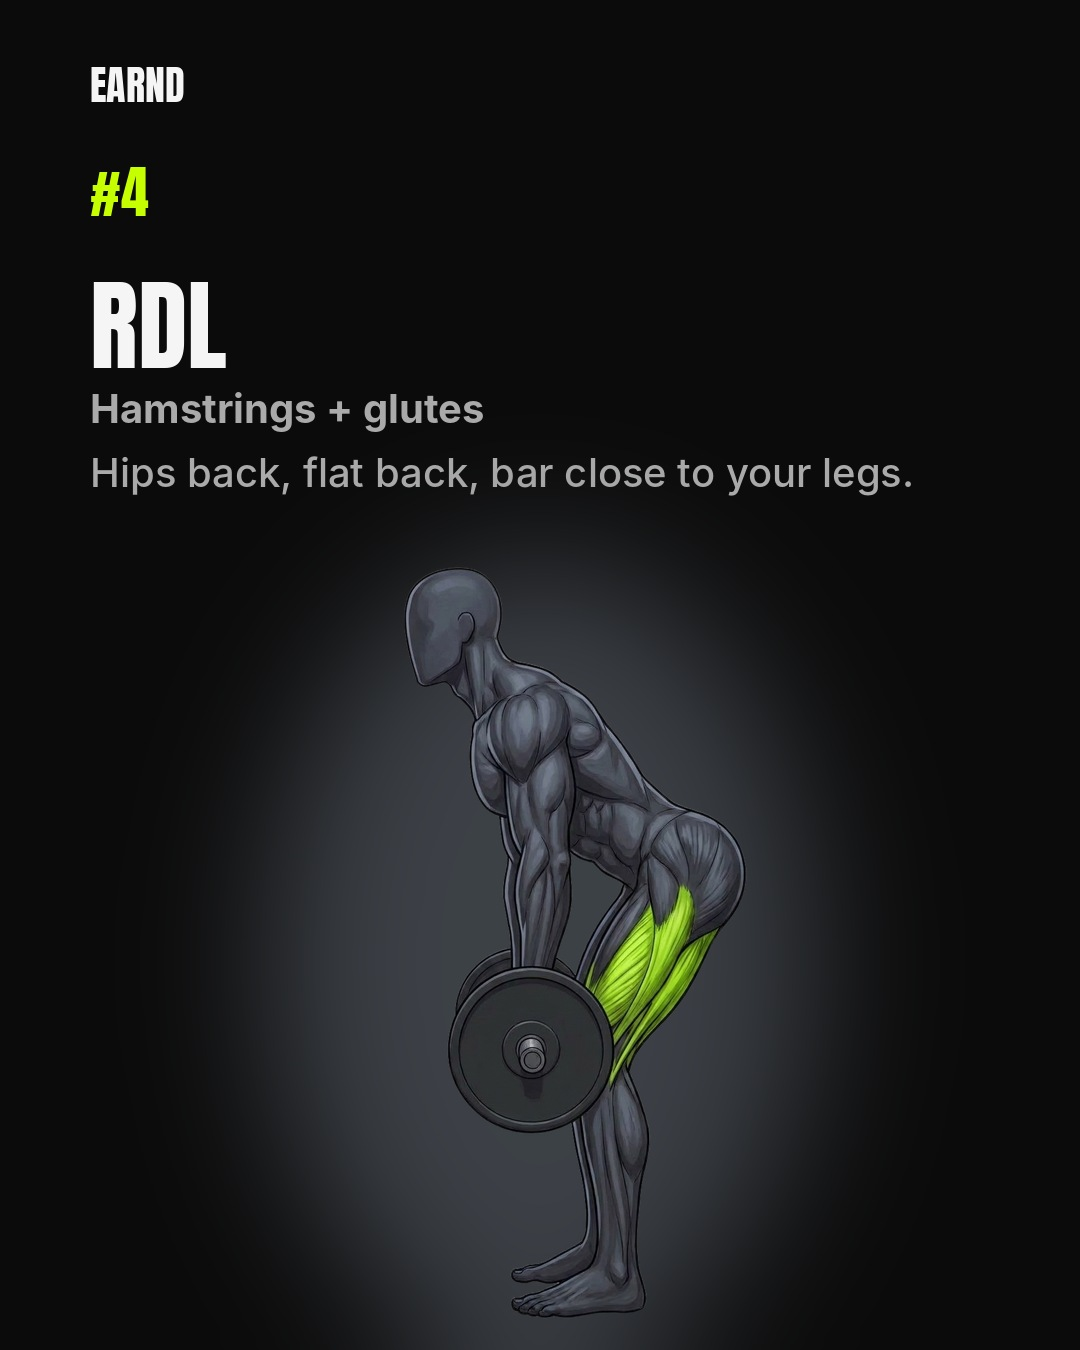
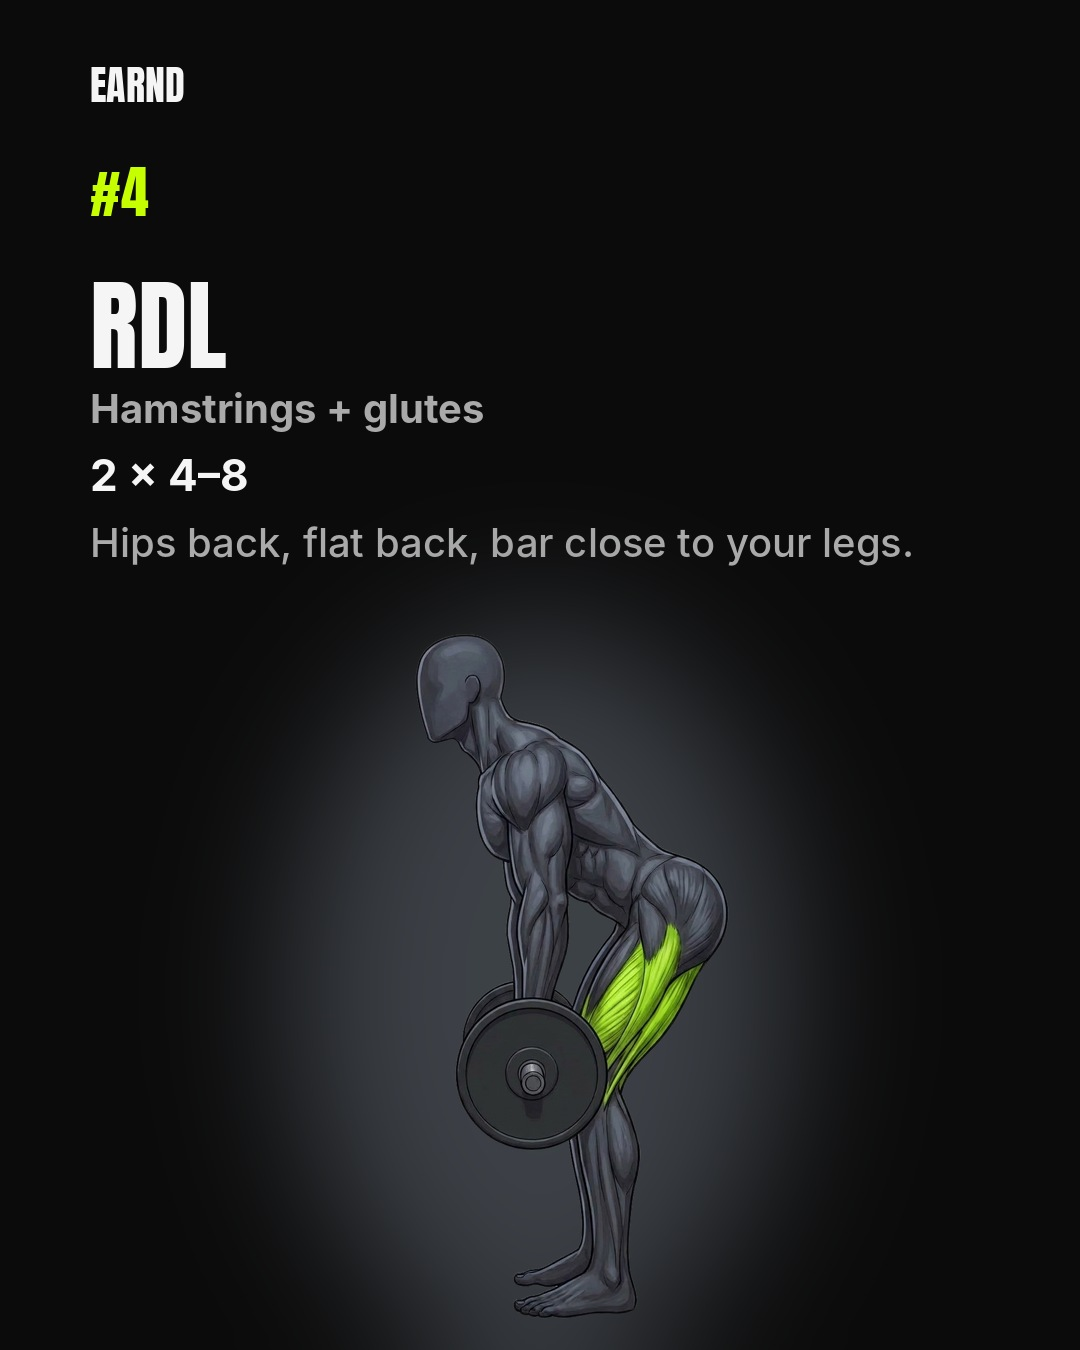
Restore sets x reps on slides without the example tag (founder clarification)
Claude-Session: https://claude.ai/code/session_01Ws8S991F2EukoMgPY9duxg

Changed region(s): [[0.0611, 0.3422, 0.8556, 0.9644]]

diff --git a/.claude/skills/slideshow-engine/scripts/edu_render.py b/.claude/skills/slideshow-engine/scripts/edu_render.py
@@ -164,6 +164,7 @@ def render(setdir, project):
             fm = font(INTER_B, 40); d.text((M, y), s["muscle"], font=fm, fill=th["soft"]); y += 64
             if s.get("example"):
                 ex = example_tag(d, M, y, th); d.text((M + 200, y), s["example"], font=font(INTER_B, 44), fill=th["ink"]); y = ex + 20
+            if s.get("sets"): d.text((M, y), s["sets"], font=font(INTER_B, 44), fill=th["ink"]); y += 70
             if s.get("cue"): y = para(d, s["cue"], font(INTER_M, 40), M, y, W - 2 * M, th["soft"]) + 10
             mascot(img, (M, y + 10, W - M, H - 30), os.path.join(project, f"01-app/brand/poses/{s['pose']}-cutout.png"))
         elif t == "cards":
@@ -200,6 +201,7 @@ def render(setdir, project):
                 fk = font(ANTON, 60); accent_text(d, (M, y), s["kicker"], fk, th, True); y += 110
             y = para(d, s["title"], font(ANTON, 104), M, y, W - 2 * M, th["ink"], 1.12) + 30
             if s.get("body"): y = para(d, s["body"], font(INTER_M, 44), M, y, W - 2 * M, th["soft"]) + 40
+            if s.get("sets"): y = para(d, s["sets"], font(INTER_B, 56), M, y, W - 2 * M, th["ink"], 1.35) + 10
             if s.get("example"):
                 y = example_tag(d, M, y, th) + 24
                 y = para(d, s["example"], font(INTER_B, 56), M, y, W - 2 * M, th["ink"], 1.35)

diff --git a/04-sets/2026-10-30-edu-perfect-upper-day/slides.md b/04-sets/2026-10-30-edu-perfect-upper-day/slides.md
@@ -7,17 +7,17 @@
 - **Caption:** the upper day behind EARND. save it for your next session
 - **Hashtags:** #upperday #upperlower #gymroutine #gymtips #musclebuildingtips
 - **AI label:** ON (mascot)
-- Exercises, sets and rules come from `01-app/programme.md`; progression numbers are tagged "example"; no sets × reps on slides (2026-10-30).
+- Exercises, sets and rules come from `01-app/programme.md`; progression numbers are tagged "example"; sets × reps are shown plain without the tag (2026-10-30).
 
 | # | Type | Text |
 |---|---|---|
 | 1 | cover | STRUCTURE THE / PERFECT / UPPER DAY |
-| 2 | exercise | #1 · MACHINE CHEST PRESS · Chest · Shoulder blades pinned to the pad. Press, then control it back. |
-| 3 | exercise | #2 · PULLDOWN · Lats · Drive your elbows down to your sides. |
-| 4 | exercise | #3 · CHEST-SUPPORTED ROW · Upper back · Chest stays on the pad. Pull your elbows back. |
-| 5 | exercise | #4 · LATERAL RAISE · Side delts · Lead with your elbows. Stop at shoulder height. |
-| 6 | exercise | #5 · PREACHER CURL · Biceps · Arm stays on the pad. Lower to a full stretch. |
-| 7 | exercise | #6 · POLIQUIN PUSHDOWN · Triceps · Elbows pinned to your sides. Full lockout. |
-| 8 | cards | THE FULL UPPER DAY · Machine Chest Press, Pulldown, Chest-Supported Row, Lateral Raise, Preacher Curl, Poliquin Pushdown |
+| 2 | exercise | #1 · MACHINE CHEST PRESS · Chest · 2 × 4–8 · Shoulder blades pinned to the pad. Press, then control it back. |
+| 3 | exercise | #2 · PULLDOWN · Lats · 2 × 4–8 · Drive your elbows down to your sides. |
+| 4 | exercise | #3 · CHEST-SUPPORTED ROW · Upper back · 2 × 4–8 · Chest stays on the pad. Pull your elbows back. |
+| 5 | exercise | #4 · LATERAL RAISE · Side delts · 2 × 4–8 · Lead with your elbows. Stop at shoulder height. |
+| 6 | exercise | #5 · PREACHER CURL · Biceps · 2 × 4–8 · Arm stays on the pad. Lower to a full stretch. |
+| 7 | exercise | #6 · POLIQUIN PUSHDOWN · Triceps · 2 × 4–8 · Elbows pinned to your sides. Full lockout. |
+| 8 | cards | THE FULL UPPER DAY · 2 × 4–8 each · Machine Chest Press, Pulldown, Chest-Supported Row, Lateral Raise, Preacher Curl, Poliquin Pushdown |
 | 9 | app | EARND SHOWS WHAT TO BEAT ON EVERY ONE · Last session and today's target, on every set. |
 | 10 | cta | SAVE THIS FOR UPPER DAY. · EARND launches soon. Follow for the launch. |

diff --git a/04-sets/2026-10-29-edu-upper-lower-programme/slides.md b/04-sets/2026-10-29-edu-upper-lower-programme/slides.md
@@ -6,16 +6,16 @@
 - **Angle:** EARND's real 4-day upper/lower programme as a save-able template → EARND shows what to beat
 - **Caption:** the exact 4-day split behind EARND. save it for your next session
 - **Hashtags:** #upperlower #workoutsplit #gymroutine #gymtips #musclebuildingtips
-- **AI label: ON** (mascot). App slides are real screenshots. Exercises and sets come from `01-app/programme.md`; progression numbers are tagged "example"; no sets × reps on slides (2026-10-30).
+- **AI label: ON** (mascot). App slides are real screenshots. Exercises and sets come from `01-app/programme.md`; progression numbers are tagged "example"; sets × reps are shown plain without the tag (2026-10-30).
 
 | # | Type | Text |
 |---|---|---|
 | 1 | cover | THE 4-DAY / UPPER / LOWER / SPLIT |
 | 2 | grid | THE WEEK · Four sessions, three rest days. Any four days work if you keep a rest day between pairs. |
-| 3 | list | DAY 1 · UPPER A · Machine Chest Press, Pulldown, Chest-Supported Row, Lateral Raise, Preacher Curl, Poliquin Pushdown |
-| 4 | list | DAY 2 · LOWER A · Calf Press, Seated Leg Curl, Leg Extension, Adductor Machine, Hip Thrust |
-| 5 | list | DAY 4 · UPPER B · Machine Shoulder Press, Pullover, Shrug, Pec Deck, Bayesian Curl, Triceps Extension |
-| 6 | list | DAY 5 · LOWER B · Calf Press, Unilateral Leg Curl, Unilateral Leg Extension, RDL, Pendulum / Hack Squat |
+| 3 | list | DAY 1 · UPPER A · 2 × 4–8 each · Machine Chest Press, Pulldown, Chest-Supported Row, Lateral Raise, Preacher Curl, Poliquin Pushdown |
+| 4 | list | DAY 2 · LOWER A · 2 × 4–8 each · Calf Press, Seated Leg Curl, Leg Extension, Adductor Machine, Hip Thrust |
+| 5 | list | DAY 4 · UPPER B · 2 × 4–8 each · Machine Shoulder Press, Pullover, Shrug, Pec Deck, Bayesian Curl, Triceps Extension |
+| 6 | list | DAY 5 · LOWER B · 2 × 4–8 each · Calf Press, Unilateral Leg Curl, Unilateral Leg Extension, RDL, Pendulum / Hack Squat |
 | 7 | steps | HOW TO PROGRESS · OWN 8 CLEAN REPS, THEN ADD WEIGHT. · 100 kg × 8 → 105 kg × 4–5 |
 | 8 | app | THIS IS EARND'S PROGRAMME · Every set shows last session and the target to beat. |
 | 9 | cta | SAVE THIS FOR YOUR NEXT SESSION. · EARND launches soon. Follow for the launch. |

diff --git a/04-sets/2026-10-30-edu-perfect-lower-day/slides.md b/04-sets/2026-10-30-edu-perfect-lower-day/slides.md
@@ -7,16 +7,16 @@
 - **Caption:** the lower day behind EARND. save it for leg day
 - **Hashtags:** #legday #lowerbody #upperlower #gymtips #musclebuildingtips
 - **AI label:** ON (mascot)
-- Exercises, sets and rules come from `01-app/programme.md`; progression numbers are tagged "example"; no sets × reps on slides (2026-10-30).
+- Exercises, sets and rules come from `01-app/programme.md`; progression numbers are tagged "example"; sets × reps are shown plain without the tag (2026-10-30).
 
 | # | Type | Text |
 |---|---|---|
 | 1 | cover | STRUCTURE THE / PERFECT / LOWER DAY |
-| 2 | exercise | #1 · CALF PRESS · Calves · Full stretch at the bottom, pause, then press. |
-| 3 | exercise | #2 · UNILATERAL LEG CURL · Hamstrings · One leg at a time. Control the way back. |
-| 4 | exercise | #3 · UNILATERAL LEG EXTENSION · Quads · Squeeze at the top for a second. |
-| 5 | exercise | #4 · RDL · Hamstrings + glutes · Hips back, flat back, bar close to your legs. |
-| 6 | exercise | #5 · PENDULUM / HACK SQUAT · Quads · Go as deep as you can with control. |
-| 7 | cards | THE FULL LOWER DAY · Calf Press, Unilateral Leg Curl, Unilateral Leg Extension, RDL, Pendulum / Hack Squat |
+| 2 | exercise | #1 · CALF PRESS · Calves · 2 × 4–8 · Full stretch at the bottom, pause, then press. |
+| 3 | exercise | #2 · UNILATERAL LEG CURL · Hamstrings · 2 × 4–8 · One leg at a time. Control the way back. |
+| 4 | exercise | #3 · UNILATERAL LEG EXTENSION · Quads · 2 × 4–8 · Squeeze at the top for a second. |
+| 5 | exercise | #4 · RDL · Hamstrings + glutes · 2 × 4–8 · Hips back, flat back, bar close to your legs. |
+| 6 | exercise | #5 · PENDULUM / HACK SQUAT · Quads · 2 × 4–8 · Go as deep as you can with control. |
+| 7 | cards | THE FULL LOWER DAY · 2 × 4–8 each · Calf Press, Unilateral Leg Curl, Unilateral Leg Extension, RDL, Pendulum / Hack Squat |
 | 8 | app | EARND SHOWS WHAT TO BEAT ON EVERY ONE · Last session and today's target, on every set. |
 | 9 | cta | SAVE THIS FOR LEG DAY. · EARND launches soon. Follow for the launch. |

diff --git a/04-sets/2026-10-29-edu-only-3-arm-exercises/slides.md b/04-sets/2026-10-29-edu-only-3-arm-exercises/slides.md
@@ -6,15 +6,15 @@
 - **Angle:** arm grows in 3 directions → 1 exercise each → track each one in EARND
 - **Caption:** 3 exercises, 3 directions. that's the whole arm
 - **Hashtags:** #armday #armworkout #hammercurls #gymtips #musclebuildingtips
-- **AI label: ON** (mascot). App slides are real screenshots. Exercises and sets come from `01-app/programme.md`; progression numbers are tagged "example"; no sets × reps on slides (2026-10-30).
+- **AI label: ON** (mascot). App slides are real screenshots. Exercises and sets come from `01-app/programme.md`; progression numbers are tagged "example"; sets × reps are shown plain without the tag (2026-10-30).
 
 | # | Type | Text |
 |---|---|---|
 | 1 | cover | THE ONLY / 3 ARM EXERCISES / YOU NEED |
 | 2 | steps | THE IDEA · YOUR ARM HAS 3 DIRECTIONS: HEIGHT, WIDTH, DEPTH. · Train one exercise for each. |
-| 3 | steps | 1 · HEIGHT · PREACHER CURL · Biceps. Arm locked on the pad, so no swinging. |
-| 4 | steps | 2 · WIDTH · HAMMER CURL · Palms facing each other. Hits the brachialis on the side of the arm. |
-| 5 | steps | 3 · DEPTH · OVERHEAD TRICEPS EXTENSION · Triceps, the back of the arm, trained in a stretch. |
+| 3 | steps | 1 · HEIGHT · PREACHER CURL · 2 × 4–8 · Biceps. Arm locked on the pad, so no swinging. |
+| 4 | steps | 2 · WIDTH · HAMMER CURL · 2 × 4–8 · Palms facing each other. Hits the brachialis on the side of the arm. |
+| 5 | steps | 3 · DEPTH · OVERHEAD TRICEPS EXTENSION · 2 × 4–8 · Triceps, the back of the arm, trained in a stretch. |
 | 6 | steps | THE RULE · OWN 8 CLEAN REPS, THEN ADD WEIGHT. · Execution → reps → load. |
 | 7 | app | EARND SHOWS YOUR NEXT STEP · After every workout: add a rep, or increase the load. |
 | 8 | cta | SAVE THIS FOR ARM DAY. · EARND launches soon. Follow for the launch. |

diff --git a/04-sets/2026-10-29-ezyxbt-edu-my-split/slides.md b/04-sets/2026-10-29-ezyxbt-edu-my-split/slides.md
@@ -12,10 +12,10 @@
 | # | Type | Text |
 |---|---|---|
 | 1 | cover | THE 4-DAY SPLIT / I ACTUALLY / TRAIN |
-| 2 | steps | WHY THIS ONE · 4 DAYS A WEEK. SHORT SESSIONS. · upper, lower, rest, upper, lower. easy to repeat every week. |
+| 2 | steps | WHY THIS ONE · 4 DAYS A WEEK. SHORT SESSIONS. · 2 × 4–8 per exercise · upper, lower, rest, upper, lower. easy to repeat every week. |
 | 3 | grid | MY WEEK · four sessions, three rest days. |
-| 4 | list | DAY 1 · UPPER A · Machine Chest Press, Pulldown, Chest-Supported Row, Lateral Raise, Preacher Curl, Poliquin Pushdown |
-| 5 | list | DAY 2 · LOWER A · Calf Press, Seated Leg Curl, Leg Extension, Adductor Machine, Hip Thrust |
-| 6 | list | DAY 4 · UPPER B · Machine Shoulder Press, Pullover, Shrug, Pec Deck, Bayesian Curl, Triceps Extension |
-| 7 | list | DAY 5 · LOWER B · Calf Press, Unilateral Leg Curl, Unilateral Leg Extension, RDL, Pendulum / Hack Squat |
+| 4 | list | DAY 1 · UPPER A · 2 × 4–8 each · Machine Chest Press, Pulldown, Chest-Supported Row, Lateral Raise, Preacher Curl, Poliquin Pushdown |
+| 5 | list | DAY 2 · LOWER A · 2 × 4–8 each · Calf Press, Seated Leg Curl, Leg Extension, Adductor Machine, Hip Thrust |
+| 6 | list | DAY 4 · UPPER B · 2 × 4–8 each · Machine Shoulder Press, Pullover, Shrug, Pec Deck, Bayesian Curl, Triceps Extension |
+| 7 | list | DAY 5 · LOWER B · 2 × 4–8 each · Calf Press, Unilateral Leg Curl, Unilateral Leg Extension, RDL, Pendulum / Hack Squat |
 | 8 | cta | SAVE IT FOR YOUR NEXT SESSION. · i'm building EARND. follow @earndapp for the launch. |

diff --git a/CLAUDE.md b/CLAUDE.md
@@ -39,7 +39,7 @@ default_app_slide: 4
 - Our accounts never comment on or engage with each other.
 - EARND has no free trial. Weekly reviews track paid subscriptions, not trials (the `trials` column in `07-results/revenue.csv` stays blank). Locate drop-offs with the funnel in `01-app/app-brief.md` → Pricing.
 - Prelaunch: every set ends with its account's prelaunch CTA from `accounts.json` (@earndapp: "EARND launches soon. Follow for the launch."). No download CTA or links until `phase` is "launched" and `launch.download_url` is set. No trial references.
-- Numerical examples (e.g. 100 kg × 7 → 100 kg × 8) are always labelled "example" on the slide. No sets × reps prescriptions on slides at all (founder, 2026-10-30); weights in progression examples stay labelled "example".
+- Numerical examples (e.g. 100 kg × 7 → 100 kg × 8) are always labelled "example" on the slide. Sets × reps prescriptions (e.g. 2 × 4–8) are shown plain, without the "example" tag (founder, 2026-10-30); weights in progression examples stay labelled "example".
 - Scheduling: users move the four prescribed sessions to available days. Never say the programme adapts to fewer sessions.
 - Never invent user experiences, testimonials, or independent endorsements.
 - No physique promises. Hooks and payoffs talk about tracking, targets, and having a plan. Users "can see when they've improved," never "numbers go up every week" or "know it's working."

diff --git a/04-sets/2026-10-30-ezyxbt-edu-session-rules/slides.md b/04-sets/2026-10-30-ezyxbt-edu-session-rules/slides.md
@@ -7,12 +7,12 @@
 - **Caption:** the rules i follow every session
 - **Hashtags:** #gymtips #progressiveoverload #strengthtraining #upperlower
 - **AI label:** not needed (real photos)
-- Exercises, sets and rules come from `01-app/programme.md`; progression numbers are tagged "example"; no sets × reps on slides (2026-10-30). First-person rules: the founder confirms them by approving.
+- Exercises, sets and rules come from `01-app/programme.md`; progression numbers are tagged "example"; sets × reps are shown plain without the tag (2026-10-30). First-person rules: the founder confirms them by approving.
 
 | # | Type | Text |
 |---|---|---|
 | 1 | cover | 4 RULES I / FOLLOW / EVERY SESSION |
-| 2 | steps | RULE 1 · 2 WORKING SETS PER EXERCISE. · 4–8 clean reps each. that's it. |
+| 2 | steps | RULE 1 · 2 WORKING SETS PER EXERCISE. · 2 × 4–8 · 4–8 clean reps each. that's it. |
 | 3 | steps | RULE 2 · 2–3 MINUTES REST BETWEEN WORKING SETS. · so the second set is actually good. |
 | 4 | steps | RULE 3 · WARM-UPS DON'T COUNT. · do as many as you need. only working sets get logged. |
 | 5 | steps | RULE 4 · EXECUTION → REPS → LOAD. · in that order. never the other way round. |

diff --git a/04-sets/2026-10-29-edu-arm-exercise-tier-list/slides.md b/04-sets/2026-10-29-edu-arm-exercise-tier-list/slides.md
@@ -6,7 +6,7 @@
 - **Angle:** arm exercise tier list → EARND's programme includes the S-tier curls → target to beat
 - **Caption:** arm exercise tier list. agree or disagree?
 - **Hashtags:** #armday #tierlist #biceps #gymtips #musclebuildingtips
-- **AI label: ON** (mascot). App slides are real screenshots. Exercises and sets come from `01-app/programme.md`; progression numbers are tagged "example"; no sets × reps on slides (2026-10-30).
+- **AI label: ON** (mascot). App slides are real screenshots. Exercises and sets come from `01-app/programme.md`; progression numbers are tagged "example"; sets × reps are shown plain without the tag (2026-10-30).
 
 | # | Type | Text |
 |---|---|---|
